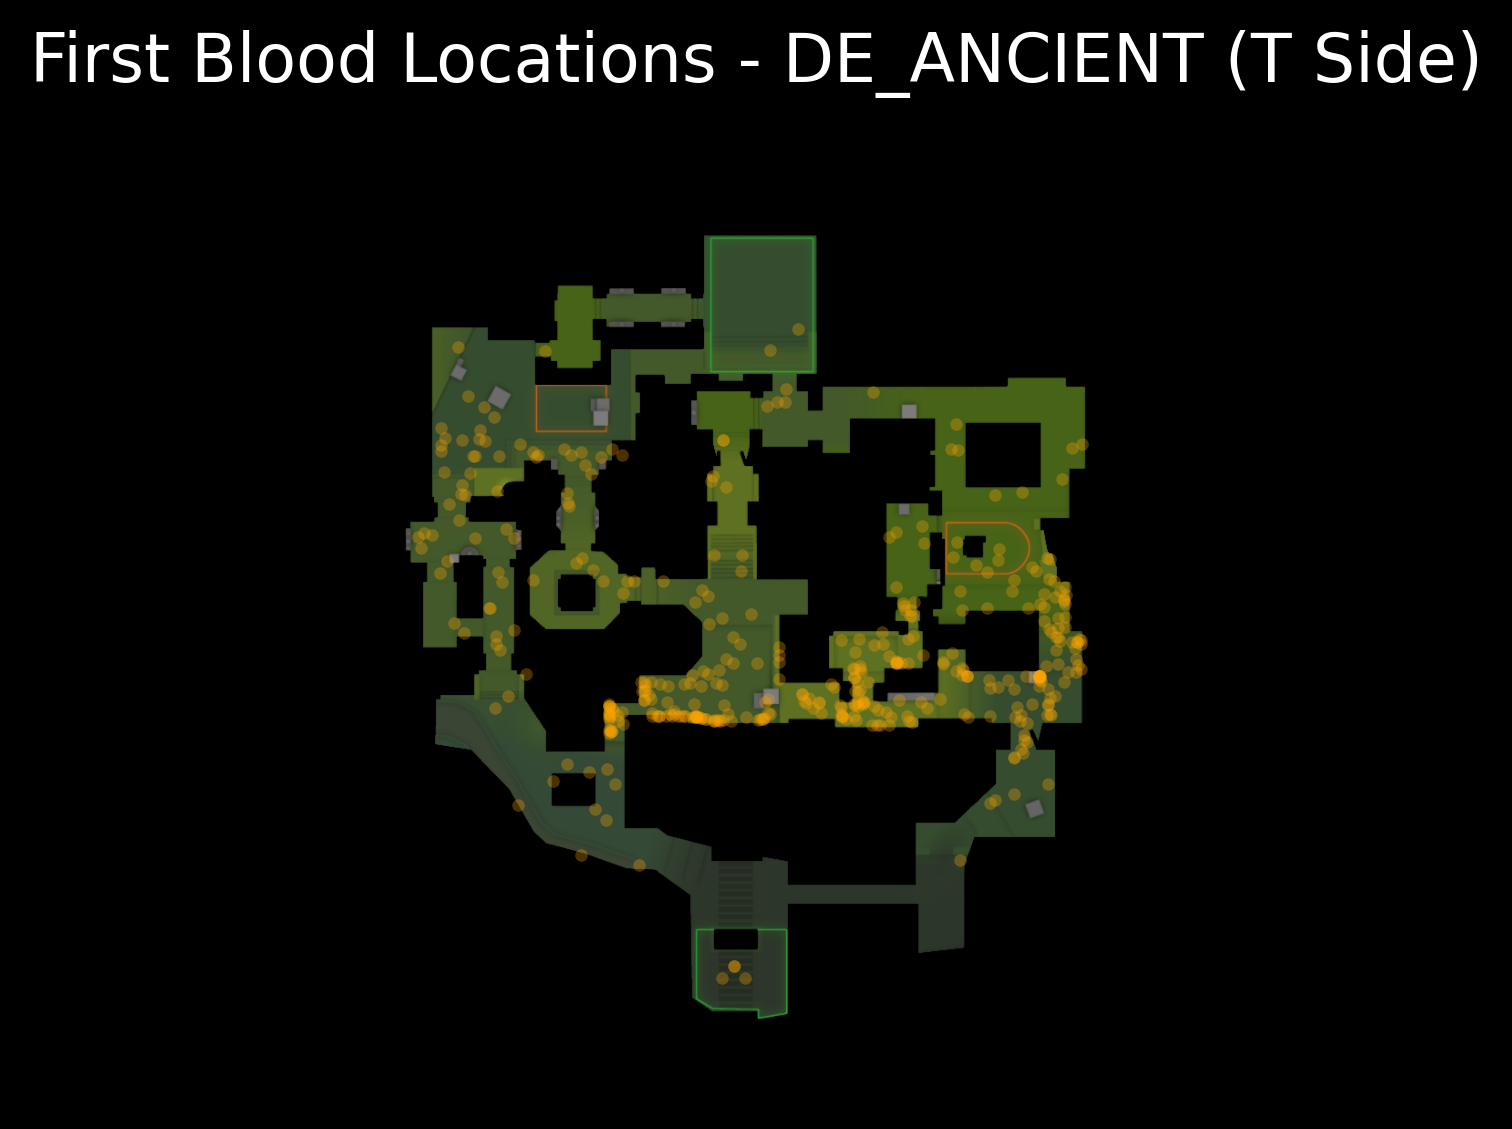
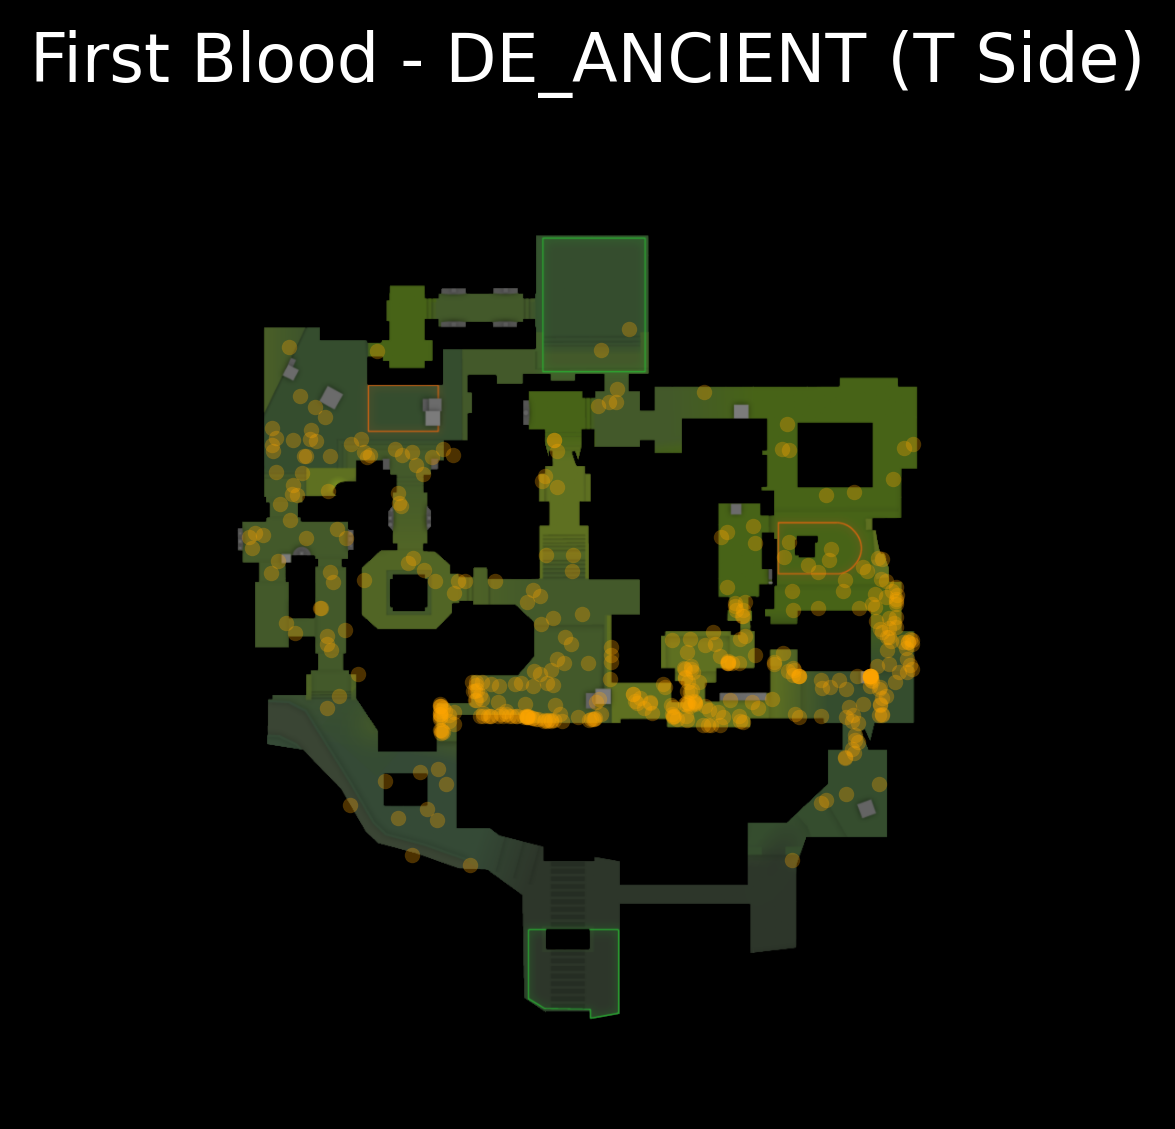
update

diff --git a/first_kill/first_blood_heatmap.py b/first_kill/first_blood_heatmap.py
@@ -8,7 +8,7 @@ import matplotlib.image as mpimg
 from awpy.plot.utils import game_to_pixel
 
 # ===== Configuration =====
-demo_root = Path("/Users/minghanfan/Documents/Test/test2")  # Change to your root directory
+demo_root = Path("/Volumes/TOSHIBA EXT/last3month")  # Change to your root directory
 output_dir = Path("first_blood_heatmaps")
 output_dir.mkdir(exist_ok=True)
 
@@ -29,10 +29,13 @@ print(f"Found {len(demo_files)} demos under {demo_root}")
 # ===== Global aggregators =====
 # map_name -> list of (X, Y, Z, side) tuples for first kills
 first_blood_positions = defaultdict(list)
+# map_name -> list of (X, Y, Z, side) tuples for first deaths
+first_death_positions = defaultdict(list)
 # Track weapons used for first kills
 first_blood_weapons = defaultdict(int)
 countknife = 0
 invalid_fk_count = 0  # Track filtered first kills
+invalid_fd_count = 0  # Track filtered first deaths
 
 for demo_path in demo_files:
     print(f"Parsing {demo_path.name}")
@@ -78,7 +81,9 @@ for demo_path in demo_files:
         print(f"[info] {demo_path.name} has no kills data")
         continue
     
-    required_kill_cols = ["attacker_X", "attacker_Y", "attacker_Z", "attacker_side", "attacker_name", "victim_name", "weapon", "tick", "round_num"]
+    required_kill_cols = ["attacker_X", "attacker_Y", "attacker_Z", "attacker_side", "attacker_name", 
+                         "victim_X", "victim_Y", "victim_Z", "victim_side", "victim_name", 
+                         "weapon", "tick", "round_num"]
     missing_kill = [c for c in required_kill_cols if c not in kills_df.columns]
     
     if missing_kill:
@@ -108,7 +113,7 @@ for demo_path in demo_files:
                 continue
             
             # Skip if weapon is invalid (world, fall damage, etc.)
-            if weapon in ["", "world", "worldspawn", "trigger_hurt", "unknown"]:
+            if weapon in ["", "world", "worldspawn", "inferno", "trigger_hurt", "unknown"]:
                 invalid_fk_count += 1
                 continue
             
@@ -120,22 +125,28 @@ for demo_path in demo_files:
         if first_kill is None:
             continue
         
-        # Extract position and side
-        x = first_kill["attacker_X"]
-        y = first_kill["attacker_Y"]
-        z = first_kill["attacker_Z"]
-        side = str(first_kill["attacker_side"]).lower()
+        # Extract ATTACKER position and side (first kill)
+        fk_x = first_kill["attacker_X"]
+        fk_y = first_kill["attacker_Y"]
+        fk_z = first_kill["attacker_Z"]
+        fk_side = str(first_kill["attacker_side"]).lower()
         weapon = str(first_kill["weapon"]).lower()
         
-        # Skip if any coordinate is NaN
-        if pd.isna(x) or pd.isna(y) or pd.isna(z) or pd.isna(side):
-            continue
+        # Extract VICTIM position and side (first death)
+        fd_x = first_kill["victim_X"]
+        fd_y = first_kill["victim_Y"]
+        fd_z = first_kill["victim_Z"]
+        fd_side = str(first_kill["victim_side"]).lower()
         
-        # Store the position
-        first_blood_positions[map_name].append((x, y, z, side))
+        # Store first kill position if valid
+        if not (pd.isna(fk_x) or pd.isna(fk_y) or pd.isna(fk_z) or pd.isna(fk_side)):
+            first_blood_positions[map_name].append((fk_x, fk_y, fk_z, fk_side))
+            # Track weapon
+            first_blood_weapons[weapon] += 1
         
-        # Track weapon
-        first_blood_weapons[weapon] += 1
+        # Store first death position if valid
+        if not (pd.isna(fd_x) or pd.isna(fd_y) or pd.isna(fd_z) or pd.isna(fd_side)):
+            first_death_positions[map_name].append((fd_x, fd_y, fd_z, fd_side))
 
 # ===== Generate heatmaps for each map =====
 print(f"\n{'='*70}")
@@ -172,19 +183,34 @@ for map_name, positions in first_blood_positions.items():
         from awpy.plot import plot
         from awpy.plot.utils import game_to_pixel
         
-        # Overall visualization
+        # Overall visualization (both first kills and first deaths)
         if len(all_positions) > 0:
             fig, ax = plot(map_name=map_name)
             
-            # Convert game coordinates to pixel coordinates
-            for x, y, z in all_positions:
-                px = game_to_pixel(map_name, (x, y, z))[0]
-                py = game_to_pixel(map_name, (x, y, z))[1]
-                
-                # Plot as red circle with transparency and no edge
-                ax.plot(px, py, 'o', color='orange', markersize=3, alpha=0.3, markeredgewidth=0)
+            # Get first death positions for this map
+            death_positions = first_death_positions.get(map_name, [])
             
-            plt.title(f"First Blood Locations - {map_name.upper()} (All Sides)", 
+            # Plot first DEATHS in magenta
+            for pos in death_positions:
+                try:
+                    x, y, z = pos[0], pos[1], pos[2]
+                    pixel_pos = game_to_pixel(map_name, (x, y, z))
+                    ax.plot(pixel_pos[0], pixel_pos[1], 'o', color="#FF9D00", markersize=3.7, alpha=0.37, markeredgewidth=0)
+                except Exception as e:
+                    print(f"  [warn] Failed to plot death position: {e}")
+                    continue
+            
+            # Plot first KILLS in orange
+            for pos in all_positions:
+                try:
+                    x, y, z = pos[0], pos[1], pos[2]
+                    pixel_pos = game_to_pixel(map_name, (x, y, z))
+                    ax.plot(pixel_pos[0], pixel_pos[1], 'o', color="#00FFFF", markersize=3.7, alpha=0.37, markeredgewidth=0)
+                except Exception as e:
+                    print(f"  [warn] Failed to plot kill position: {e}")
+                    continue
+            
+            plt.title(f"First Blood - {map_name.upper()} (Orange=Kills, Magenta=Deaths)", 
                      fontsize=16, color='white', pad=20)
             output_file = output_dir / f"{map_name}_firstblood_all.png"
             plt.savefig(output_file, dpi=300, bbox_inches='tight', facecolor='black')
@@ -195,15 +221,16 @@ for map_name, positions in first_blood_positions.items():
         if len(ct_positions) > 0:
             fig, ax = plot(map_name=map_name)
             
-            # Convert game coordinates to pixel coordinates
-            for x, y, z in ct_positions:
-                px = game_to_pixel(map_name, (x, y, z))[0]
-                py = game_to_pixel(map_name, (x, y, z))[1]
-                
-                # Plot as blue circle with transparency and no edge
-                ax.plot(px, py, 'o', color='cyan', markersize=3.7, alpha=0.3, markeredgewidth=0)
+            for pos in ct_positions:
+                try:
+                    x, y, z = pos[0], pos[1], pos[2]
+                    pixel_pos = game_to_pixel(map_name, (x, y, z))
+                    ax.plot(pixel_pos[0], pixel_pos[1], 'o', color='cyan', markersize=3.7, alpha=0.3, markeredgewidth=0)
+                except Exception as e:
+                    print(f"  [warn] Failed to plot CT position: {e}")
+                    continue
             
-            plt.title(f"First Blood Locations - {map_name.upper()} (CT Side)", 
+            plt.title(f"First Blood - {map_name.upper()} (CT Side)", 
                      fontsize=16, color='white', pad=20)
             output_file = output_dir / f"{map_name}_firstblood_ct.png"
             plt.savefig(output_file, dpi=300, bbox_inches='tight', facecolor='black')
@@ -214,15 +241,16 @@ for map_name, positions in first_blood_positions.items():
         if len(t_positions) > 0:
             fig, ax = plot(map_name=map_name)
             
-            # Convert game coordinates to pixel coordinates
-            for x, y, z in t_positions:
-                px = game_to_pixel(map_name, (x, y, z))[0]
-                py = game_to_pixel(map_name, (x, y, z))[1]
-                
-                # Plot as orange circle with transparency and no edge
-                ax.plot(px, py, 'o', color='orange', markersize=3.7, alpha=0.3, markeredgewidth=0)
+            for pos in t_positions:
+                try:
+                    x, y, z = pos[0], pos[1], pos[2]
+                    pixel_pos = game_to_pixel(map_name, (x, y, z))
+                    ax.plot(pixel_pos[0], pixel_pos[1], 'o', color='orange', markersize=3.7, alpha=0.3, markeredgewidth=0)
+                except Exception as e:
+                    print(f"  [warn] Failed to plot T position: {e}")
+                    continue
             
-            plt.title(f"First Blood Locations - {map_name.upper()} (T Side)", 
+            plt.title(f"First Blood - {map_name.upper()} (T Side)", 
                      fontsize=16, color='white', pad=20)
             output_file = output_dir / f"{map_name}_firstblood_t.png"
             plt.savefig(output_file, dpi=300, bbox_inches='tight', facecolor='black')
